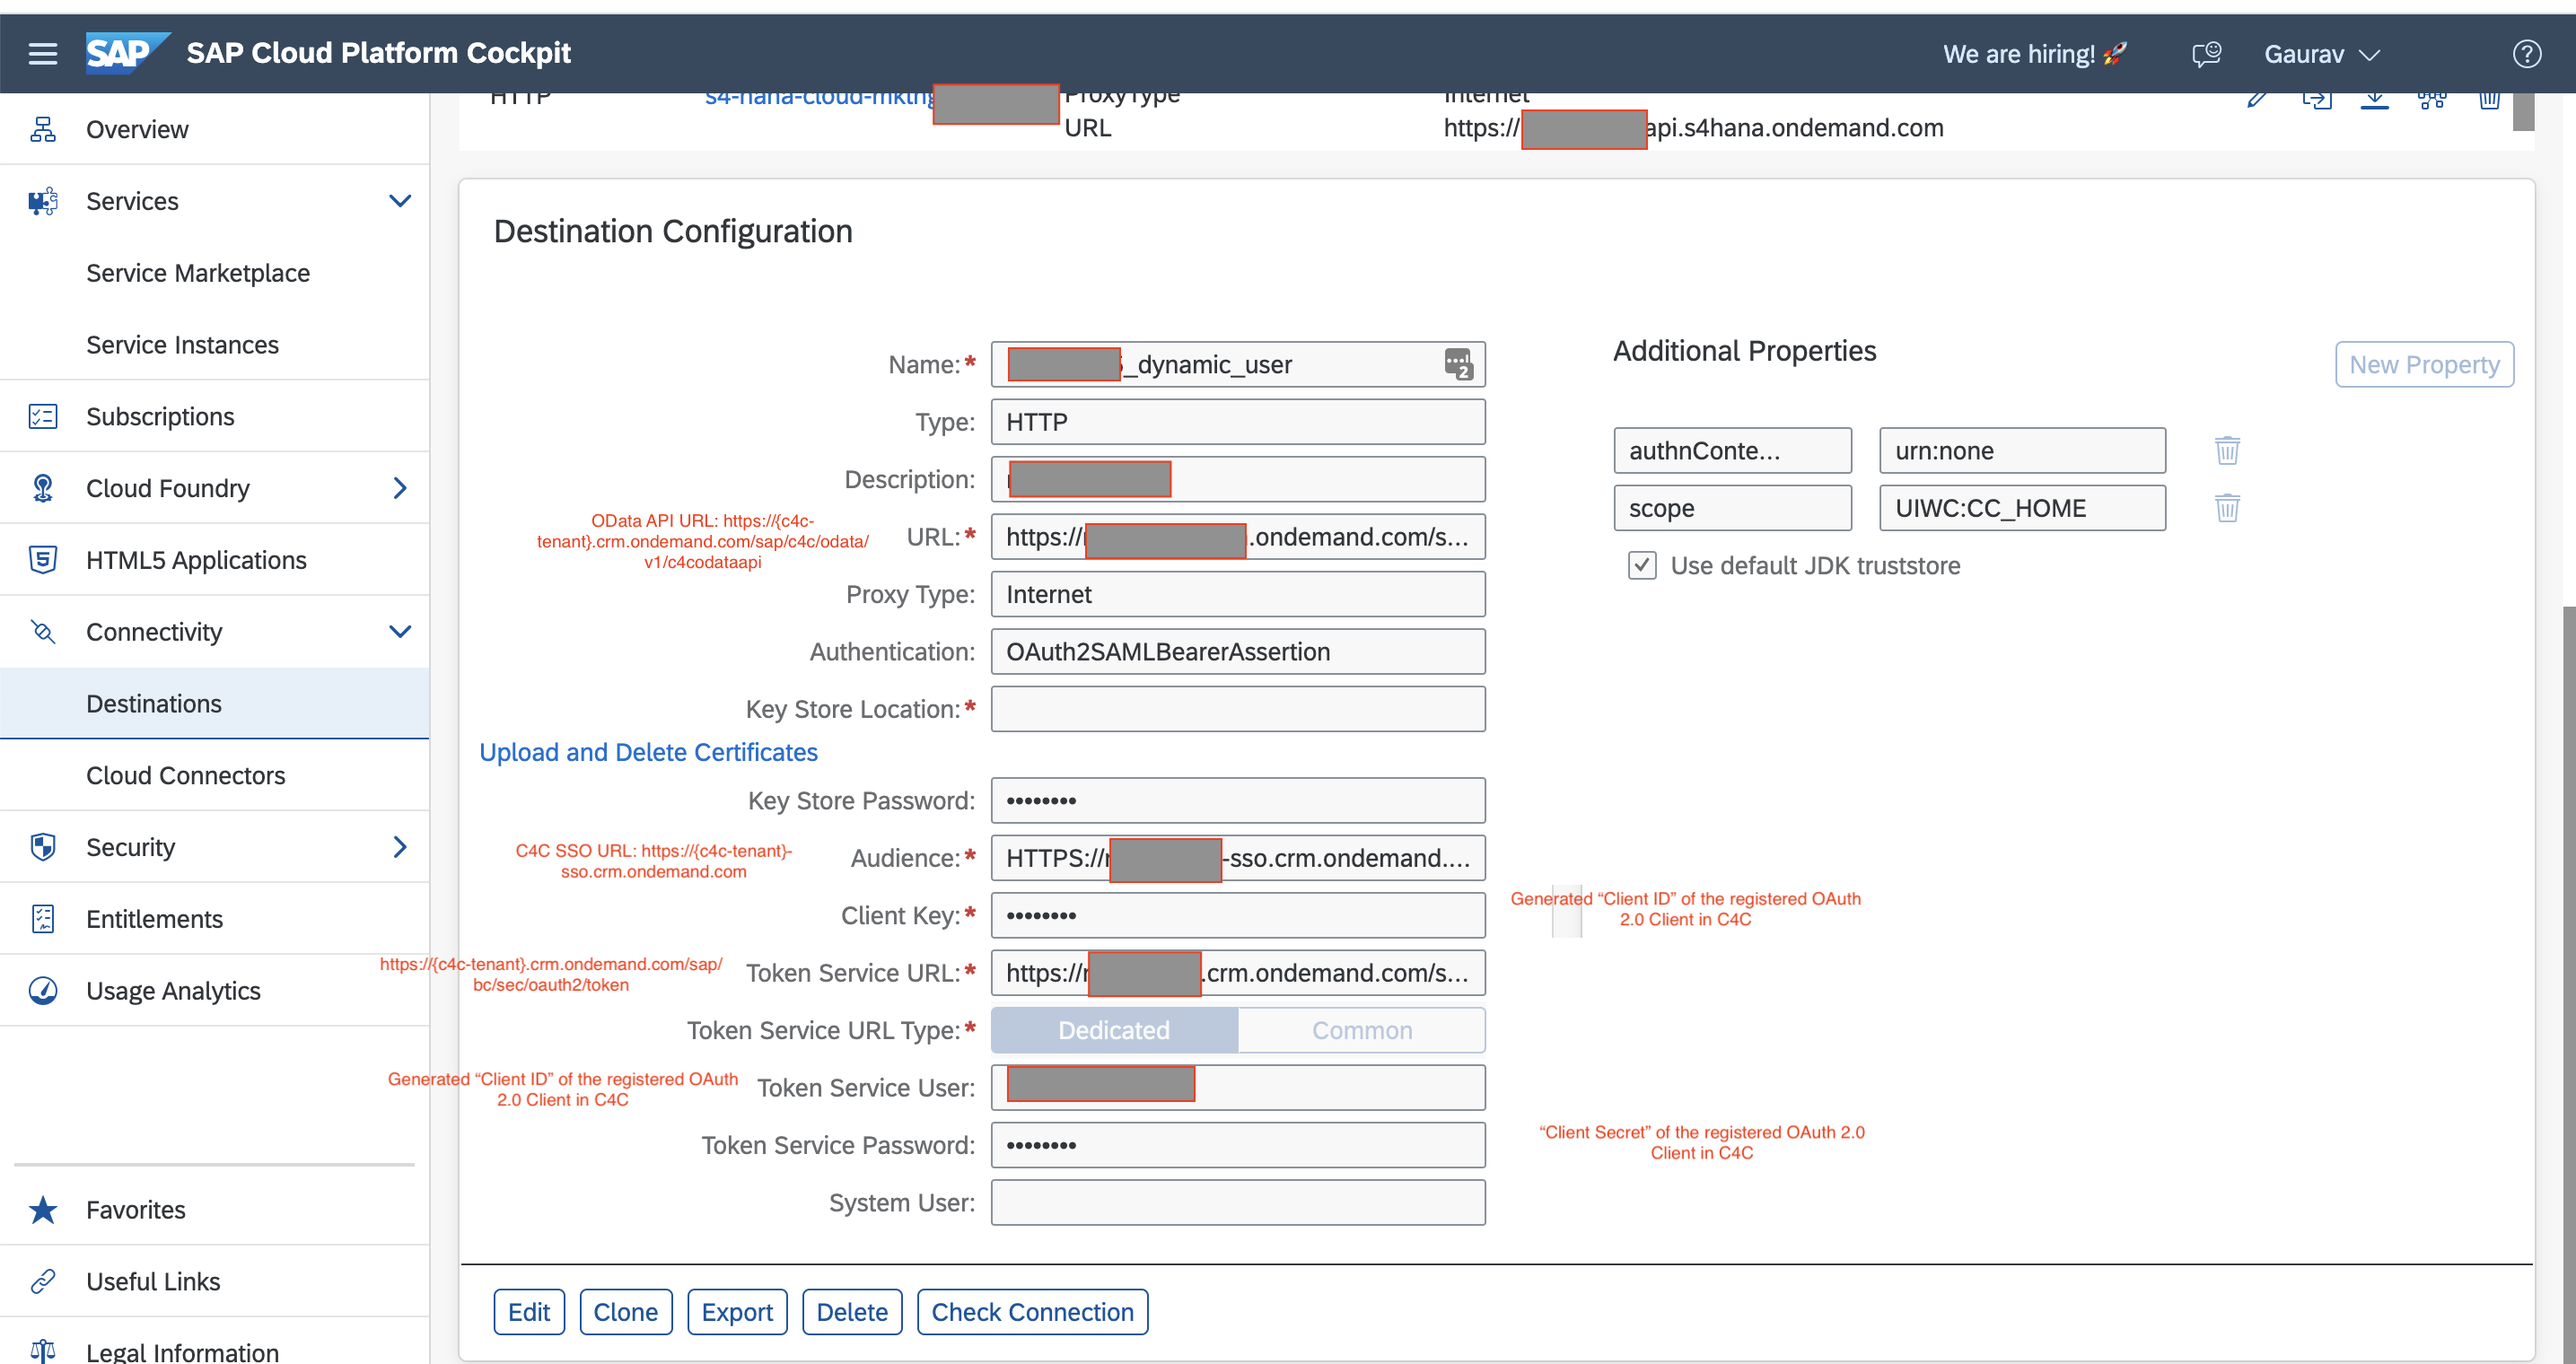
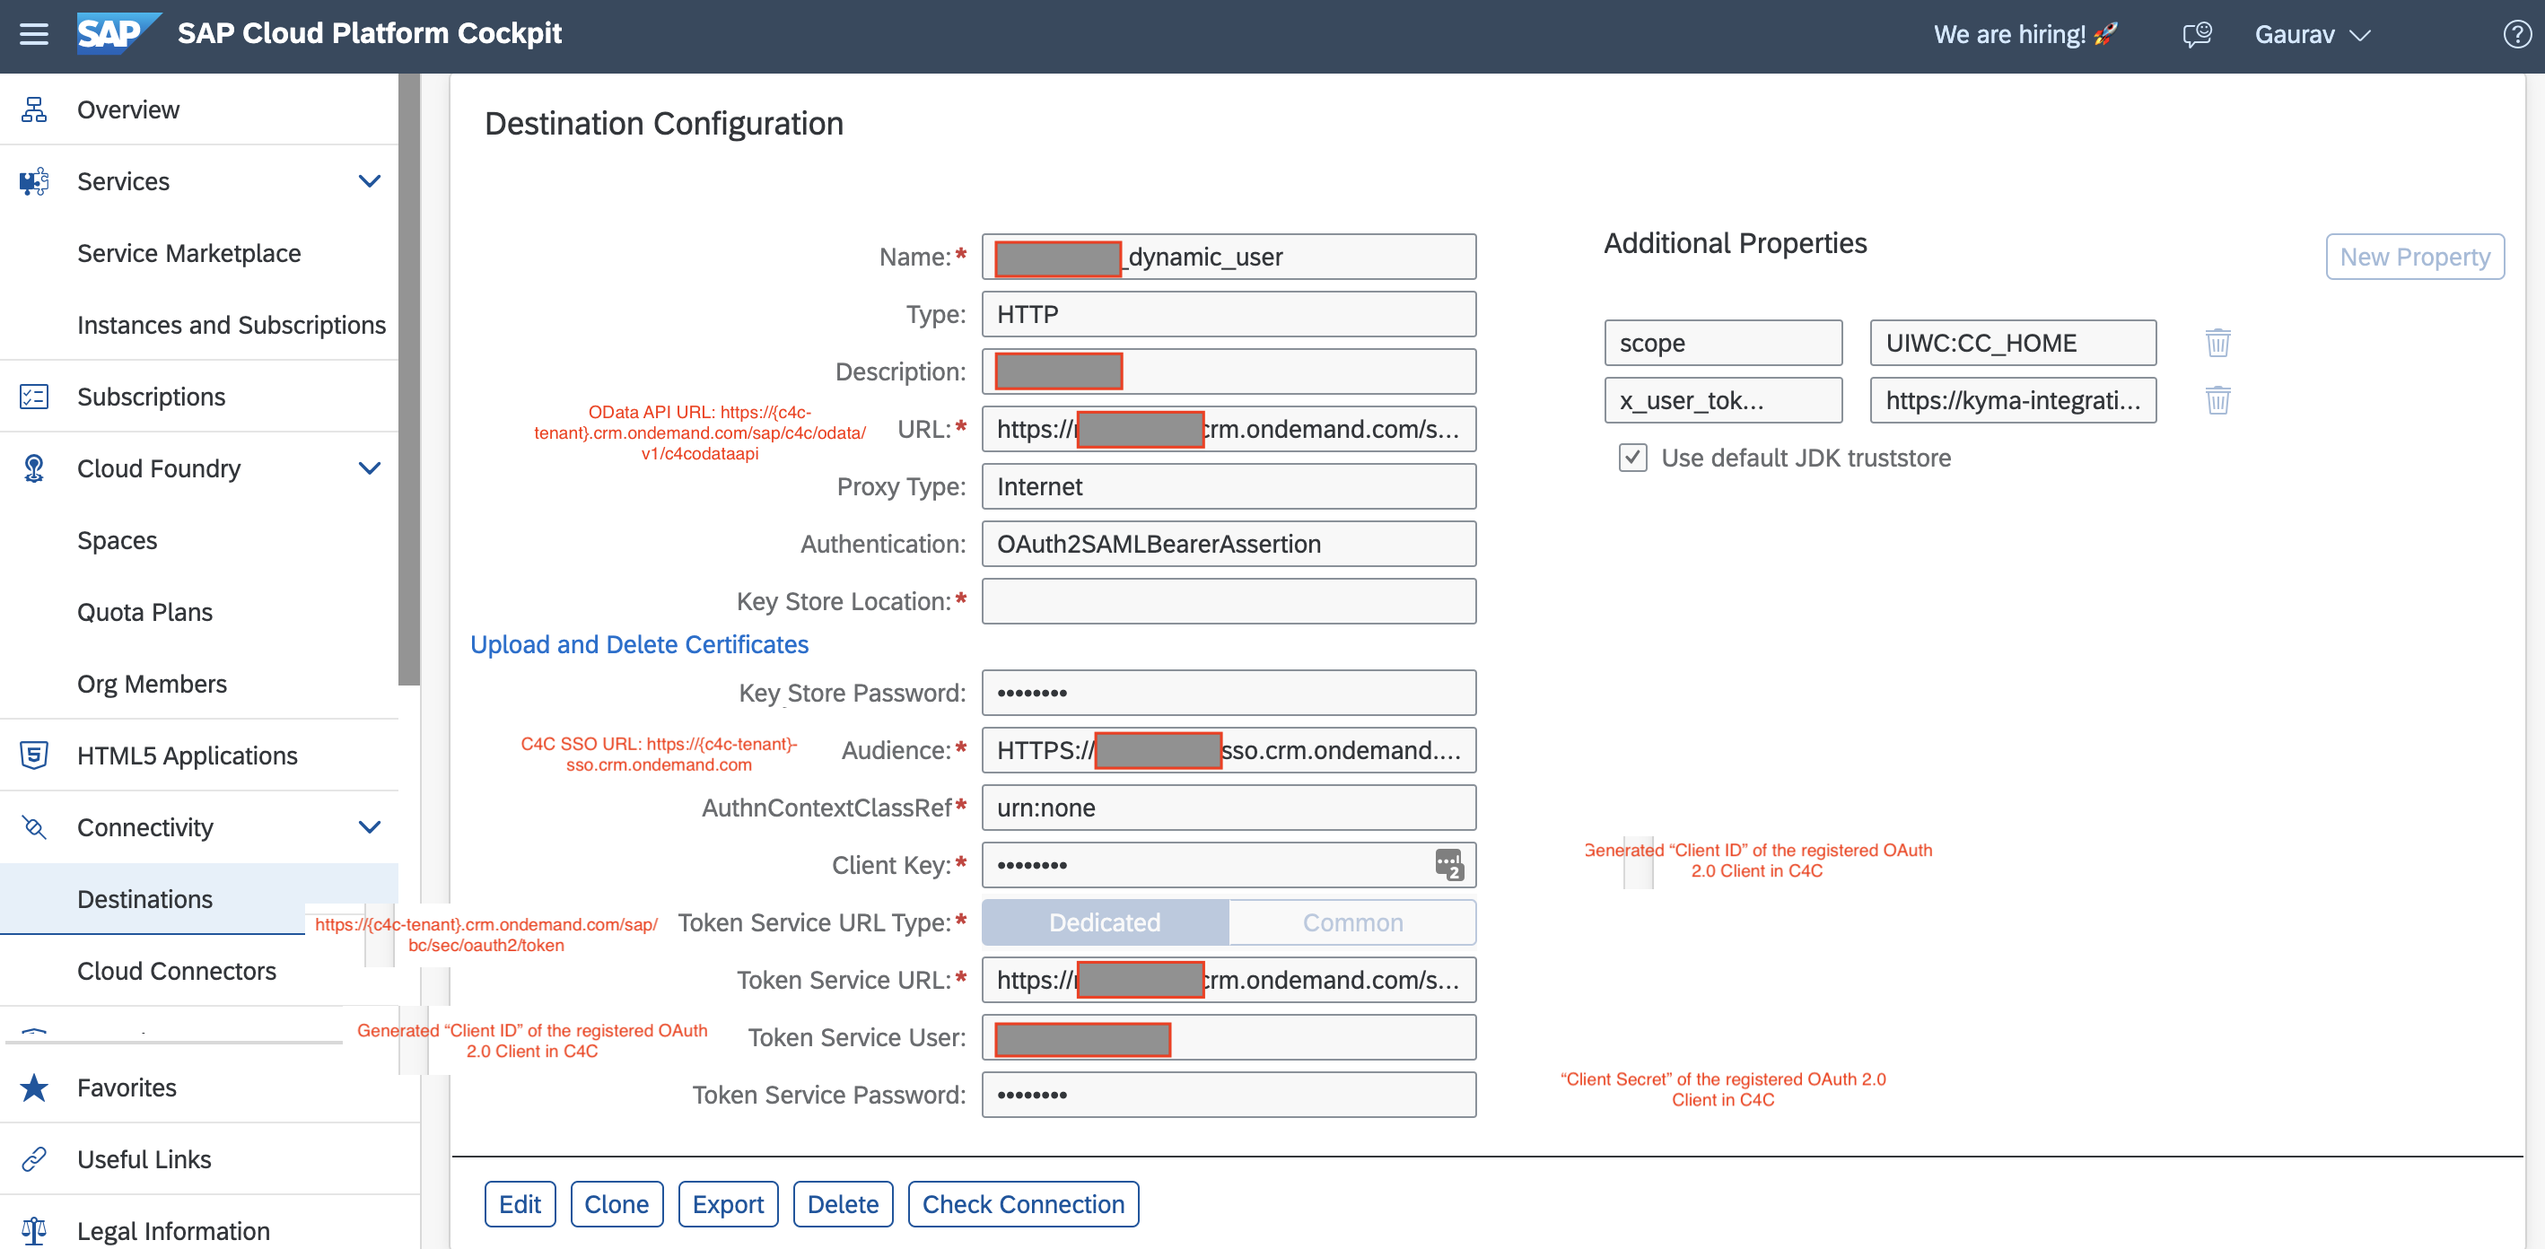
Update the user propagation samples with x_user_token.jwks_uri property

diff --git a/user-propagation/README.md b/user-propagation/README.md
@@ -65,8 +65,8 @@ You will end up creating a Destination Service in SAP Cloud Platform. It will be
   ![http-destination](assets/http-destination.png)
 
   Configure these additional properties:
-  `authnContextClassRef` : `urn:none`
-  `scope`                : `UIWC:CC_HOME`
+  `scope`                      : `UIWC:CC_HOME`
+  `x_user_token.jwks_uri`      : `Provide URI of the JSON web key set`
 
 ### Identifier used by the Destination Service to get the token
 

diff --git a/user-propagation-via-xsuaa/README.md b/user-propagation-via-xsuaa/README.md
@@ -86,8 +86,8 @@ You will end up creating a Destination Service in SAP Cloud Platform. It will be
   ![http-destination](assets/http-destination.png)
 
   Configure these additional properties:
-  `authnContextClassRef` : `urn:none`
-  `scope` : `UIWC:CC_HOME`
+  `scope`                      : `UIWC:CC_HOME`
+  `x_user_token.jwks_uri`      : `Provide URI of the JSON web key set`
 
 ### Identifier used by the Destination Service to get the token
 
